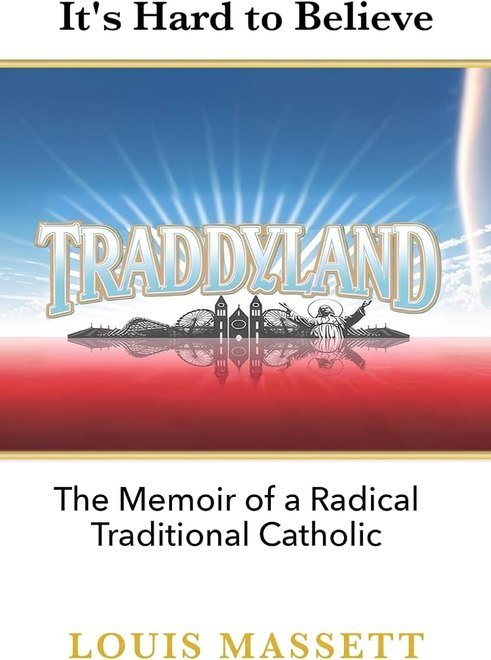
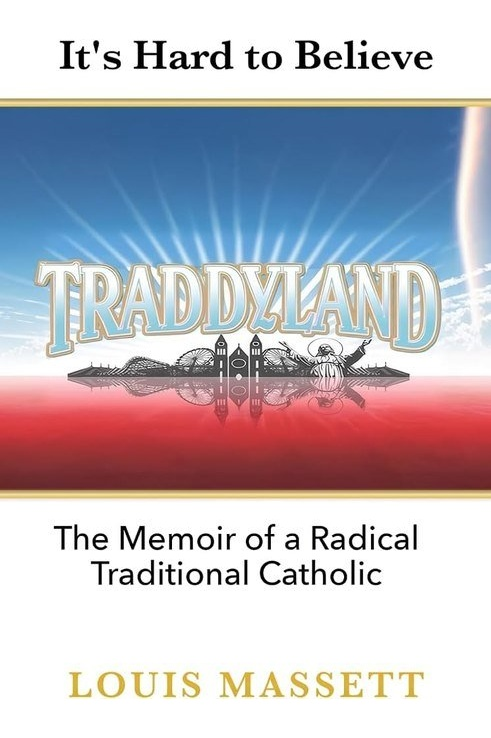
Use padded Traddyland cover (restored margins) at true 491x738 proportions on reading shelf

diff --git a/index.html b/index.html
@@ -76,7 +76,7 @@
 </div></div></section>
         
 
-<section class="reading-section reveal"><div class="section-container"><div class="section-header"><h2 class="section-title">What I&rsquo;m Reading</h2><div class="divider"></div></div><div class="reading-shelf"><a class="reading-book reveal reveal-delay-1" href="https://bookstore.wordonfire.org/products/the-way-of-heaven-and-earth" target="_blank" rel="noopener"><span class="reading-cover"><img decoding="async" src="reading-way-heaven-earth.jpg" alt="The Way of Heaven and Earth by Matthew Becklo" loading="lazy" width="335" height="500"></span><span class="reading-book-title">The Way of Heaven and&nbsp;Earth</span><span class="reading-book-author">Matthew Becklo</span></a><a class="reading-book reveal reveal-delay-2" href="https://harriman-house.com/authors/morgan-housel/the-psychology-of-money/9780857197689" target="_blank" rel="noopener"><span class="reading-cover"><img decoding="async" src="reading-psychology-of-money.jpg" alt="The Psychology of Money by Morgan Housel" loading="lazy" width="318" height="500"></span><span class="reading-book-title">The Psychology of&nbsp;Money</span><span class="reading-book-author">Morgan Housel</span></a><a class="reading-book reveal reveal-delay-3" href="https://www.harpercollins.ca/9780060937256/the-divine-milieu/" target="_blank" rel="noopener"><span class="reading-cover"><img decoding="async" src="reading-divine-milieu.jpg" alt="The Divine Milieu by Pierre Teilhard de Chardin" loading="lazy" width="321" height="475"></span><span class="reading-book-title">The Divine&nbsp;Milieu</span><span class="reading-book-author">Pierre Teilhard de Chardin</span></a><a class="reading-book reveal reveal-delay-4" href="https://www.traddyland.com/" target="_blank" rel="noopener"><span class="reading-cover"><img decoding="async" src="reading-traddyland.jpg" alt="Traddyland by Louis Massett" loading="lazy" width="491" height="660"></span><span class="reading-book-title">Traddyland</span><span class="reading-book-author">Louis Massett</span></a><a class="reading-book reveal reveal-delay-1" href="https://www.penguinrandomhouse.com/books/529363/on-grand-strategy-by-john-lewis-gaddis/" target="_blank" rel="noopener"><span class="reading-cover"><img decoding="async" src="reading-on-grand-strategy.jpg" alt="On Grand Strategy by John Lewis Gaddis" loading="lazy" width="332" height="500"></span><span class="reading-book-title">On Grand&nbsp;Strategy</span><span class="reading-book-author">John Lewis Gaddis</span></a><a class="reading-book reveal reveal-delay-2" href="https://www.penguinrandomhouse.com/books/724314/build-the-life-you-want-by-arthur-c-brooks-and-oprah-winfrey/" target="_blank" rel="noopener"><span class="reading-cover"><img decoding="async" src="reading-build-the-life-you-want.jpg" alt="Build the Life You Want by Arthur C. Brooks and Oprah Winfrey" loading="lazy" width="338" height="499"></span><span class="reading-book-title">Build the Life You&nbsp;Want</span><span class="reading-book-author">Arthur C. Brooks &amp; Oprah Winfrey</span></a></div></div></section>
+<section class="reading-section reveal"><div class="section-container"><div class="section-header"><h2 class="section-title">What I&rsquo;m Reading</h2><div class="divider"></div></div><div class="reading-shelf"><a class="reading-book reveal reveal-delay-1" href="https://bookstore.wordonfire.org/products/the-way-of-heaven-and-earth" target="_blank" rel="noopener"><span class="reading-cover"><img decoding="async" src="reading-way-heaven-earth.jpg" alt="The Way of Heaven and Earth by Matthew Becklo" loading="lazy" width="335" height="500"></span><span class="reading-book-title">The Way of Heaven and&nbsp;Earth</span><span class="reading-book-author">Matthew Becklo</span></a><a class="reading-book reveal reveal-delay-2" href="https://harriman-house.com/authors/morgan-housel/the-psychology-of-money/9780857197689" target="_blank" rel="noopener"><span class="reading-cover"><img decoding="async" src="reading-psychology-of-money.jpg" alt="The Psychology of Money by Morgan Housel" loading="lazy" width="318" height="500"></span><span class="reading-book-title">The Psychology of&nbsp;Money</span><span class="reading-book-author">Morgan Housel</span></a><a class="reading-book reveal reveal-delay-3" href="https://www.harpercollins.ca/9780060937256/the-divine-milieu/" target="_blank" rel="noopener"><span class="reading-cover"><img decoding="async" src="reading-divine-milieu.jpg" alt="The Divine Milieu by Pierre Teilhard de Chardin" loading="lazy" width="321" height="475"></span><span class="reading-book-title">The Divine&nbsp;Milieu</span><span class="reading-book-author">Pierre Teilhard de Chardin</span></a><a class="reading-book reveal reveal-delay-4" href="https://www.traddyland.com/" target="_blank" rel="noopener"><span class="reading-cover"><img decoding="async" src="reading-traddyland.jpg" alt="Traddyland by Louis Massett" loading="lazy" width="491" height="738"></span><span class="reading-book-title">Traddyland</span><span class="reading-book-author">Louis Massett</span></a><a class="reading-book reveal reveal-delay-1" href="https://www.penguinrandomhouse.com/books/529363/on-grand-strategy-by-john-lewis-gaddis/" target="_blank" rel="noopener"><span class="reading-cover"><img decoding="async" src="reading-on-grand-strategy.jpg" alt="On Grand Strategy by John Lewis Gaddis" loading="lazy" width="332" height="500"></span><span class="reading-book-title">On Grand&nbsp;Strategy</span><span class="reading-book-author">John Lewis Gaddis</span></a><a class="reading-book reveal reveal-delay-2" href="https://www.penguinrandomhouse.com/books/724314/build-the-life-you-want-by-arthur-c-brooks-and-oprah-winfrey/" target="_blank" rel="noopener"><span class="reading-cover"><img decoding="async" src="reading-build-the-life-you-want.jpg" alt="Build the Life You Want by Arthur C. Brooks and Oprah Winfrey" loading="lazy" width="338" height="499"></span><span class="reading-book-title">Build the Life You&nbsp;Want</span><span class="reading-book-author">Arthur C. Brooks &amp; Oprah Winfrey</span></a></div></div></section>
 <section class="dispatches-section reveal"><div class="dispatches-inner"><p class="dispatch-eyebrow">Dispatches</p><h2 class="dispatch-title">From <em>Tradition &amp; Renewal</em></h2><p class="dispatch-sub">Essays on faith, culture, and the Church.</p><div id="substack-feed" class="dispatch-grid" data-feed="https://traditionandrenewal.substack.com/feed"><article class="dispatch-card dispatch-skeleton"><div class="skeleton-line"></div><div class="skeleton-line short"></div></article><article class="dispatch-card dispatch-skeleton"><div class="skeleton-line"></div><div class="skeleton-line short"></div></article><article class="dispatch-card dispatch-skeleton"><div class="skeleton-line"></div><div class="skeleton-line short"></div></article></div><div class="dispatch-foot"><a href="https://traditionandrenewal.substack.com" target="_blank" rel="noopener" class="dispatch-subscribe"><svg width="16" height="16" viewBox="0 0 24 24" fill="currentColor" xmlns="http://www.w3.org/2000/svg"><path d="M22.539 8.242H1.46V5.406h21.08v2.836zM1.46 10.812V24L12 18.11 22.54 24V10.812H1.46zM22.54 0H1.46v2.836h21.08V0z"/></svg>Subscribe on Substack</a></div></div></section>
                 <section class="contact-cta-section"><div class="contact-cta-content"><h2>Let's Work Together</h2><p>Consulting, speaking, or editorial collaboration.</p><div class="contact-quick-links"><a href="mailto:alikoudis@likoudislegacy.com">✉ alikoudis@likoudislegacy.com</a></div><a href="javascript:void(0)" class="btn btn-primary" onclick="showPage('work-with-me');setTimeout(function(){document.getElementById('inquiry').scrollIntoView({behavior:'smooth'})},100)">Work With Me →</a></div></section>
     </div><!-- end page-gallery -->
